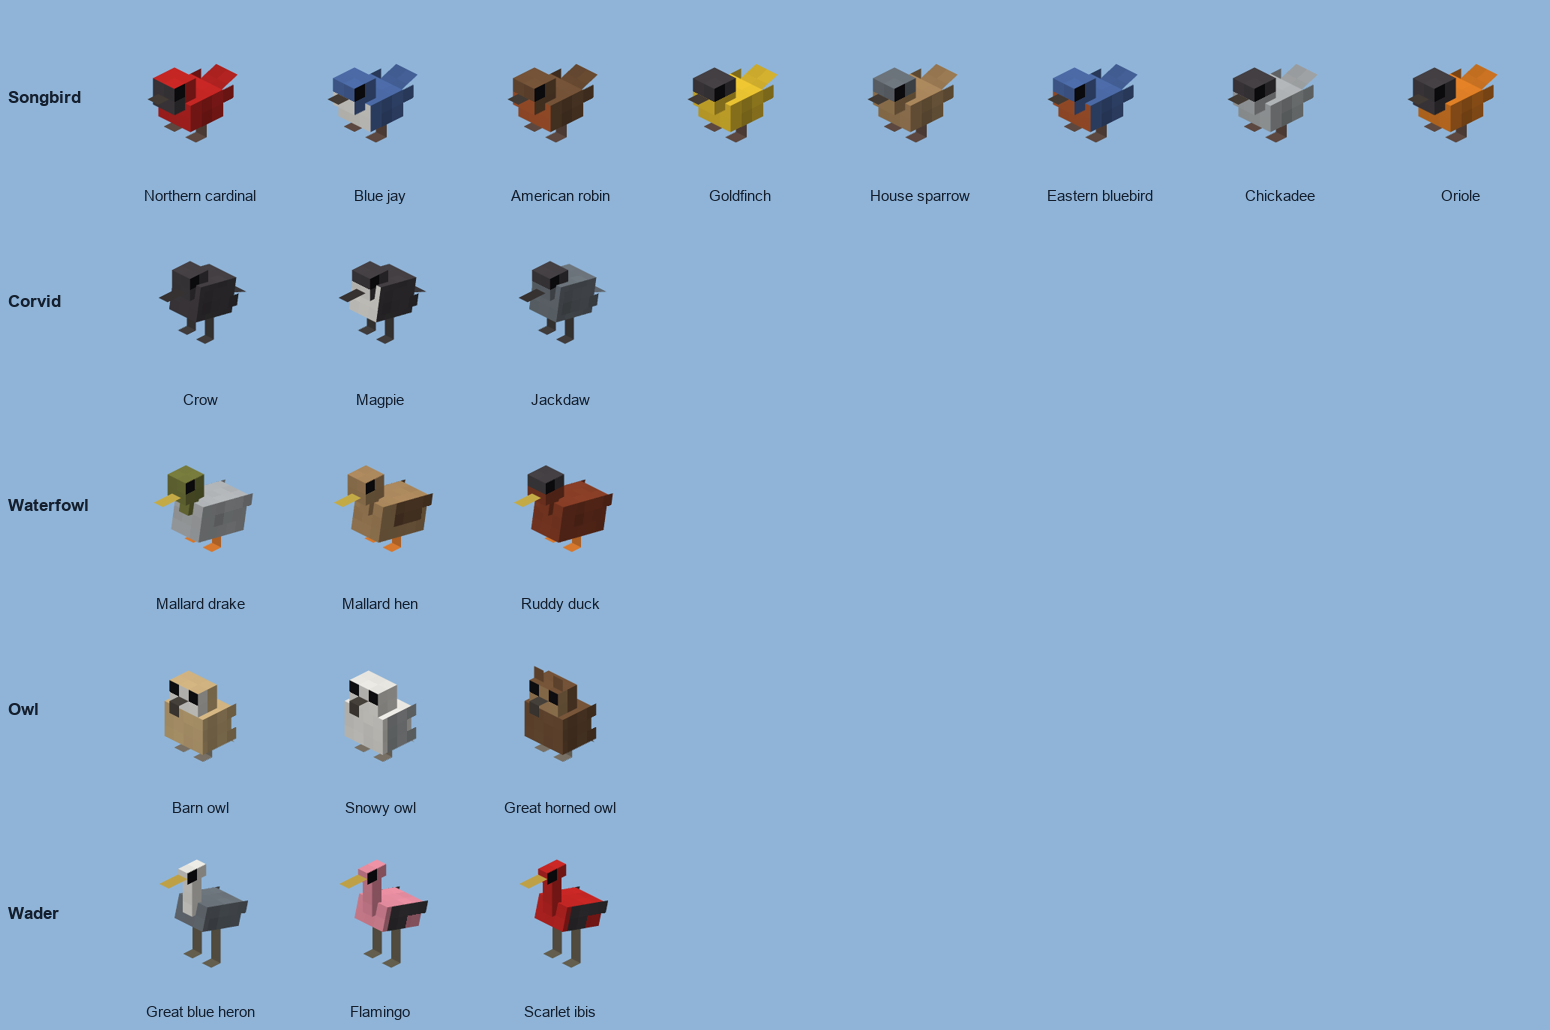
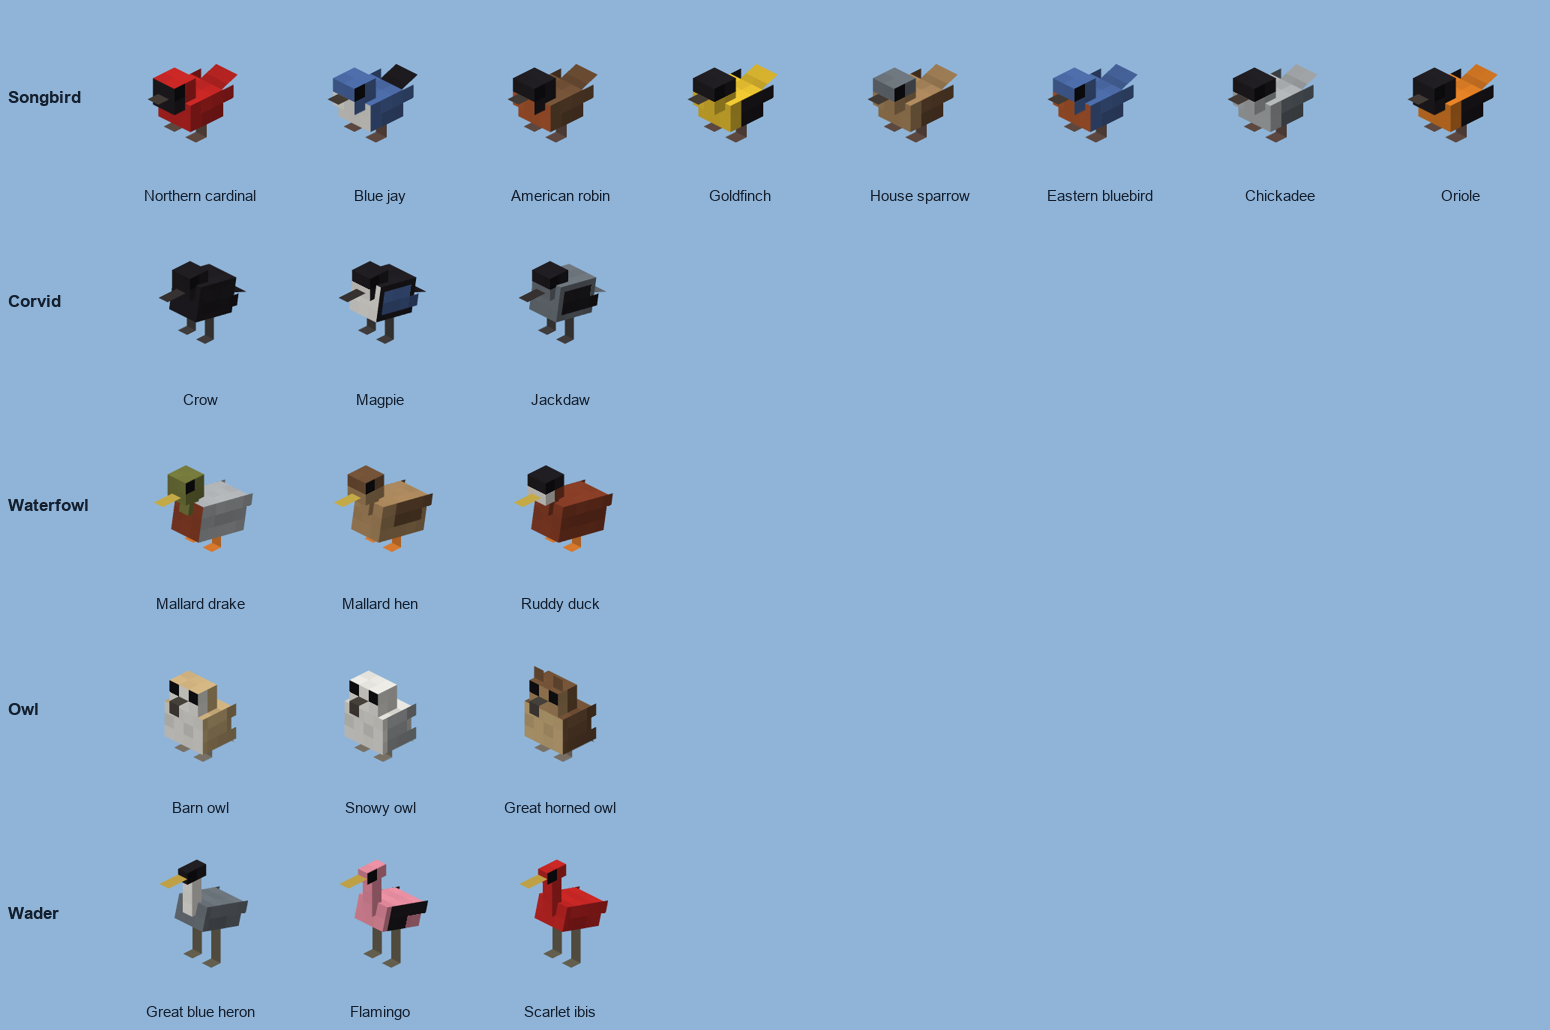
Birds: feather markings in the base, up to two patterns per bird, true black

diff --git a/tools/birds/paint_birds.py b/tools/birds/paint_birds.py
@@ -4,11 +4,13 @@ the faces are found from the model's box-UV layout, and each part is painted by 
 Run from anywhere: python tools/birds/paint_birds.py [preview_dir]
 
 Writes src/main/resources/assets/eternalreturn/textures/entity/bird/<shape>/:
-- base.png: the bird's body, neck, head, wings and tail in light grays (shaded by face), tinted with its base colour;
+- base.png: the bird's body, neck, head, wings and tail in light grays (shaded by face, with feather markings: wing
+  bars and dark flight feathers, barred tails, and per shape a duck's barred flanks, an owl's speckles and streaked
+  breast, a corvid's sheen), tinted with its base colour;
 - pattern_<name>.png for cap, mask, breast, wings, tail and head: the same grays where the pattern lies, transparent
-  elsewhere, tinted with its pattern colour and drawn over the base;
-- details.png: what is never tinted: the eyes (near black), the beak or bill, legs and feet. The palette's darkest
-  colours stay a little lighter than the eyes, so a black-headed bird's eyes still show.
+  elsewhere, tinted with its pattern colour and drawn over the base (a bird wears up to two patterns, each in its
+  own colour);
+- details.png: what is never tinted: the eyes, the beak or bill, legs and feet.
 With a preview_dir, also writes preview_<shape>_<bird>.png there: birds with colours applied, for checking in Blockbench.
 Hand edits to these textures are lost when this is rerun.
 """
@@ -50,24 +52,30 @@ PATTERNS = {
 
 # The natural palette (birds.json will hold it; here for the previews).
 PALETTE = {
-    'black': (70, 66, 70), 'pink': (238, 146, 166), 'slate_grey': (112, 120, 128), 'pale_grey': (182, 186, 188),
+    'black': (34, 31, 36), 'pink': (238, 146, 166), 'slate_grey': (112, 120, 128), 'pale_grey': (182, 186, 188),
     'white': (238, 236, 230), 'cream': (234, 222, 186), 'buff': (214, 184, 132), 'tan': (176, 140, 96),
     'brown': (120, 86, 58), 'chestnut': (140, 64, 40), 'rust': (186, 94, 50), 'scarlet': (204, 40, 38),
     'orange': (232, 132, 40), 'yellow': (242, 202, 52), 'olive': (122, 126, 62), 'slate_blue': (78, 110, 172),
 }
+# Each preset: its base colour, then up to two patterns with their colours (the second drawn over the first).
 PREVIEWS = {
-    'songbird': {'cardinal': ('scarlet', 'mask', 'black'), 'blue_jay': ('slate_blue', 'breast', 'white'),
-                 'robin': ('brown', 'breast', 'rust'), 'goldfinch': ('yellow', 'cap', 'black'),
-                 'house_sparrow': ('tan', 'cap', 'slate_grey'), 'bluebird': ('slate_blue', 'breast', 'rust'),
-                 'chickadee': ('pale_grey', 'cap', 'black'), 'oriole': ('orange', 'head', 'black')},
-    'corvid': {'crow': ('black', 'wings', 'black'), 'magpie': ('black', 'breast', 'white'),
-               'jackdaw': ('slate_grey', 'cap', 'black')},
-    'waterfowl': {'mallard_drake': ('pale_grey', 'head', 'olive'), 'mallard_hen': ('tan', 'wings', 'brown'),
-                  'ruddy_duck': ('chestnut', 'cap', 'black')},
-    'owl': {'barn_owl': ('buff', 'mask', 'white'), 'snowy_owl': ('white', 'wings', 'pale_grey'),
-            'great_horned_owl': ('brown', 'mask', 'tan')},
-    'wader': {'great_blue_heron': ('slate_grey', 'head', 'white'), 'flamingo': ('pink', 'wings', 'black'),
-              'scarlet_ibis': ('scarlet', 'wings', 'black')},
+    'songbird': {'cardinal': ('scarlet', [('mask', 'black')]),
+                 'blue_jay': ('slate_blue', [('breast', 'white'), ('tail', 'black')]),
+                 'robin': ('brown', [('head', 'black'), ('breast', 'rust')]),
+                 'goldfinch': ('yellow', [('wings', 'black'), ('cap', 'black')]),
+                 'house_sparrow': ('tan', [('wings', 'brown'), ('cap', 'slate_grey')]),
+                 'bluebird': ('slate_blue', [('breast', 'rust')]),
+                 'chickadee': ('pale_grey', [('wings', 'slate_grey'), ('cap', 'black')]),
+                 'oriole': ('orange', [('wings', 'black'), ('head', 'black')])},
+    'corvid': {'crow': ('black', []), 'magpie': ('black', [('breast', 'white'), ('wings', 'slate_blue')]),
+               'jackdaw': ('slate_grey', [('wings', 'black'), ('cap', 'black')])},
+    'waterfowl': {'mallard_drake': ('pale_grey', [('breast', 'chestnut'), ('head', 'olive')]),
+                  'mallard_hen': ('tan', [('wings', 'brown'), ('cap', 'brown')]),
+                  'ruddy_duck': ('chestnut', [('mask', 'white'), ('cap', 'black')])},
+    'owl': {'barn_owl': ('buff', [('breast', 'white'), ('mask', 'white')]), 'snowy_owl': ('white', [('wings', 'pale_grey')]),
+            'great_horned_owl': ('brown', [('breast', 'buff'), ('mask', 'tan')])},
+    'wader': {'great_blue_heron': ('slate_grey', [('head', 'white'), ('cap', 'black')]),
+              'flamingo': ('pink', [('wings', 'black')]), 'scarlet_ibis': ('scarlet', [('tail', 'black')])},
 }
 # Owls without ear tufts (in game the renderer hides the tufts; Blockbench can't, so their previews leave them blank).
 NO_TUFTS = {'barn_owl', 'snowy_owl'}
@@ -116,6 +124,49 @@ def feathered(outline, rect, face, x, y):
     return along < len(row) and row[along] == '#'
 
 
+def markings(shape, part, face, rect, x, y, rng):
+    """How much lighter (or darker) feather markings make this pixel of the gray base."""
+    x1, y1, x2, y2 = rect
+    side = face in ('east', 'west')
+    if part == 'wing' and side:
+        rows = y2 - y1
+        along = (x2 - 1 - x) if face == 'east' else (x - x1)
+        d = 0
+        if y == y1:
+            d += 14  # the coverts: a pale bar along the top
+        elif y == y2 - 1 and rows > 1:
+            d -= 16  # the flight feathers below, darker
+            d += 6 if along % 2 == 0 else 0  # and their pale edges, feather by feather
+        if along >= (x2 - x1) - 1:
+            d -= 14  # the long feathers at the tip
+        if shape == 'owl' and rng.random() < 0.25:
+            d -= 26
+        if shape == 'corvid' and y == y1:
+            d += 10  # a glossy sheen
+        return d
+    if part == 'tail' and face in ('up', 'down'):
+        return -12 if (y - y1) % 2 else 4  # barred
+    if part == 'body':
+        if shape == 'waterfowl' and side:
+            return -9 if (y - y1) % 2 else 3  # finely barred flanks
+        if shape == 'owl':
+            if face == 'north':
+                return -18 if (x - x1) % 2 == 0 and (y - y1) % 2 == 1 else 0  # a streaked breast
+            if face in ('east', 'west', 'south', 'up') and rng.random() < 0.22:
+                return -26  # speckles
+        if shape == 'corvid' and face == 'up':
+            return 12 if (x - x1) % 2 == 0 else 0  # a glossy sheen on the back
+        if shape == 'songbird' and face == 'up':
+            return -12 if rng.random() < 0.3 else 0  # a streaked back
+        if shape == 'wader' and face == 'up':
+            return 8 if (y - y1) % 2 == 0 else -6  # plumes along the back
+    if part == 'neck' and shape == 'wader' and face == 'north':
+        return 12  # a pale throat
+    if part == 'head' and shape == 'owl' and face == 'north':
+        return 8  # the facial disc catches the light
+    return 0
+
+
 def paint(shape):
     model = json.load(open(os.path.join(MODELS, f'bird_{shape}.bbmodel'), encoding='utf-8'))
     size = (model['resolution']['width'], model['resolution']['height'])
@@ -131,10 +182,7 @@ def paint(shape):
                 if part == 'wing' and not feathered(SHAPES[shape]['wing'], rect, face, x, y):
                     continue
                 g = (WING if part == 'wing' else TAIL if part == 'tail' else SHADE[face]) + rng.randint(-6, 6)
-                if part == 'wing' and face in ('east', 'west') and y == y1:
-                    g += 12  # the wing's top edge (its shoulder) catches the light
-                if part == 'wing' and face in ('east', 'west') and x in (x1, x2 - 1):
-                    g -= 18  # its tip and its join to the body
+                g += markings(shape, part, face, rect, x, y, rng)
                 g = max(0, min(255, g))
                 base.putpixel((x, y), (g, g, g, 255))
     layers = {'base': base}
@@ -187,9 +235,10 @@ def main():
         for name, image in layers.items():
             image.save(os.path.join(folder, name + '.png'))
         if len(sys.argv) > 1:
-            for bird, (base, pattern, colour) in PREVIEWS[shape].items():
+            for bird, (base, patterns) in PREVIEWS[shape].items():
                 image = tint(layers['base'], PALETTE[base])
-                image.alpha_composite(tint(layers['pattern_' + pattern], PALETTE[colour]))
+                for pattern, colour in patterns:
+                    image.alpha_composite(tint(layers['pattern_' + pattern], PALETTE[colour]))
                 image.alpha_composite(layers['details'])
                 if bird in NO_TUFTS:
                     model = json.load(open(os.path.join(MODELS, f'bird_{shape}.bbmodel'), encoding='utf-8'))
